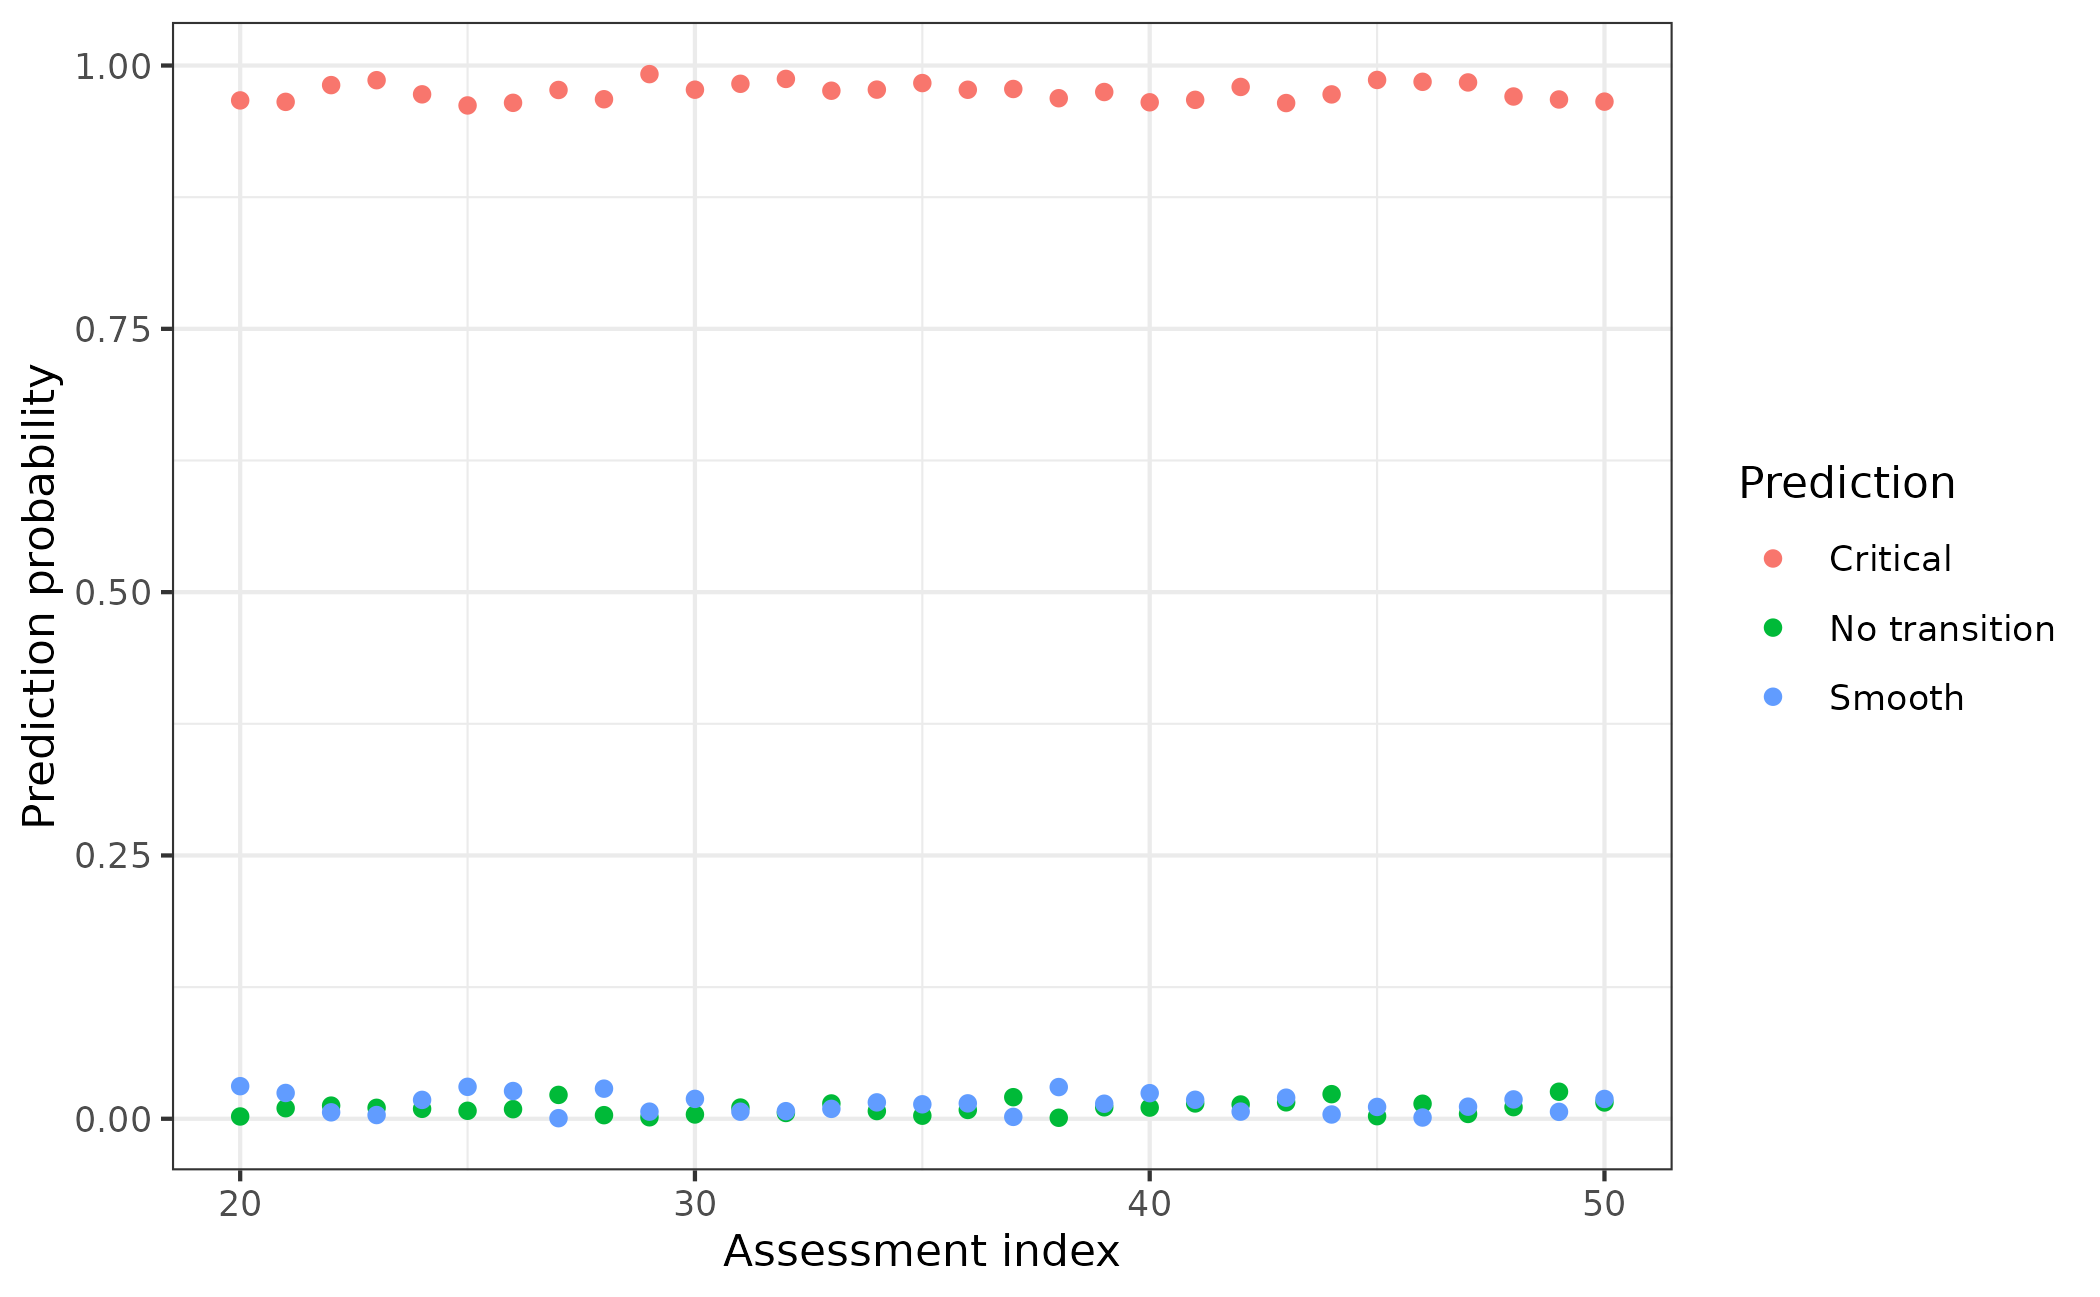
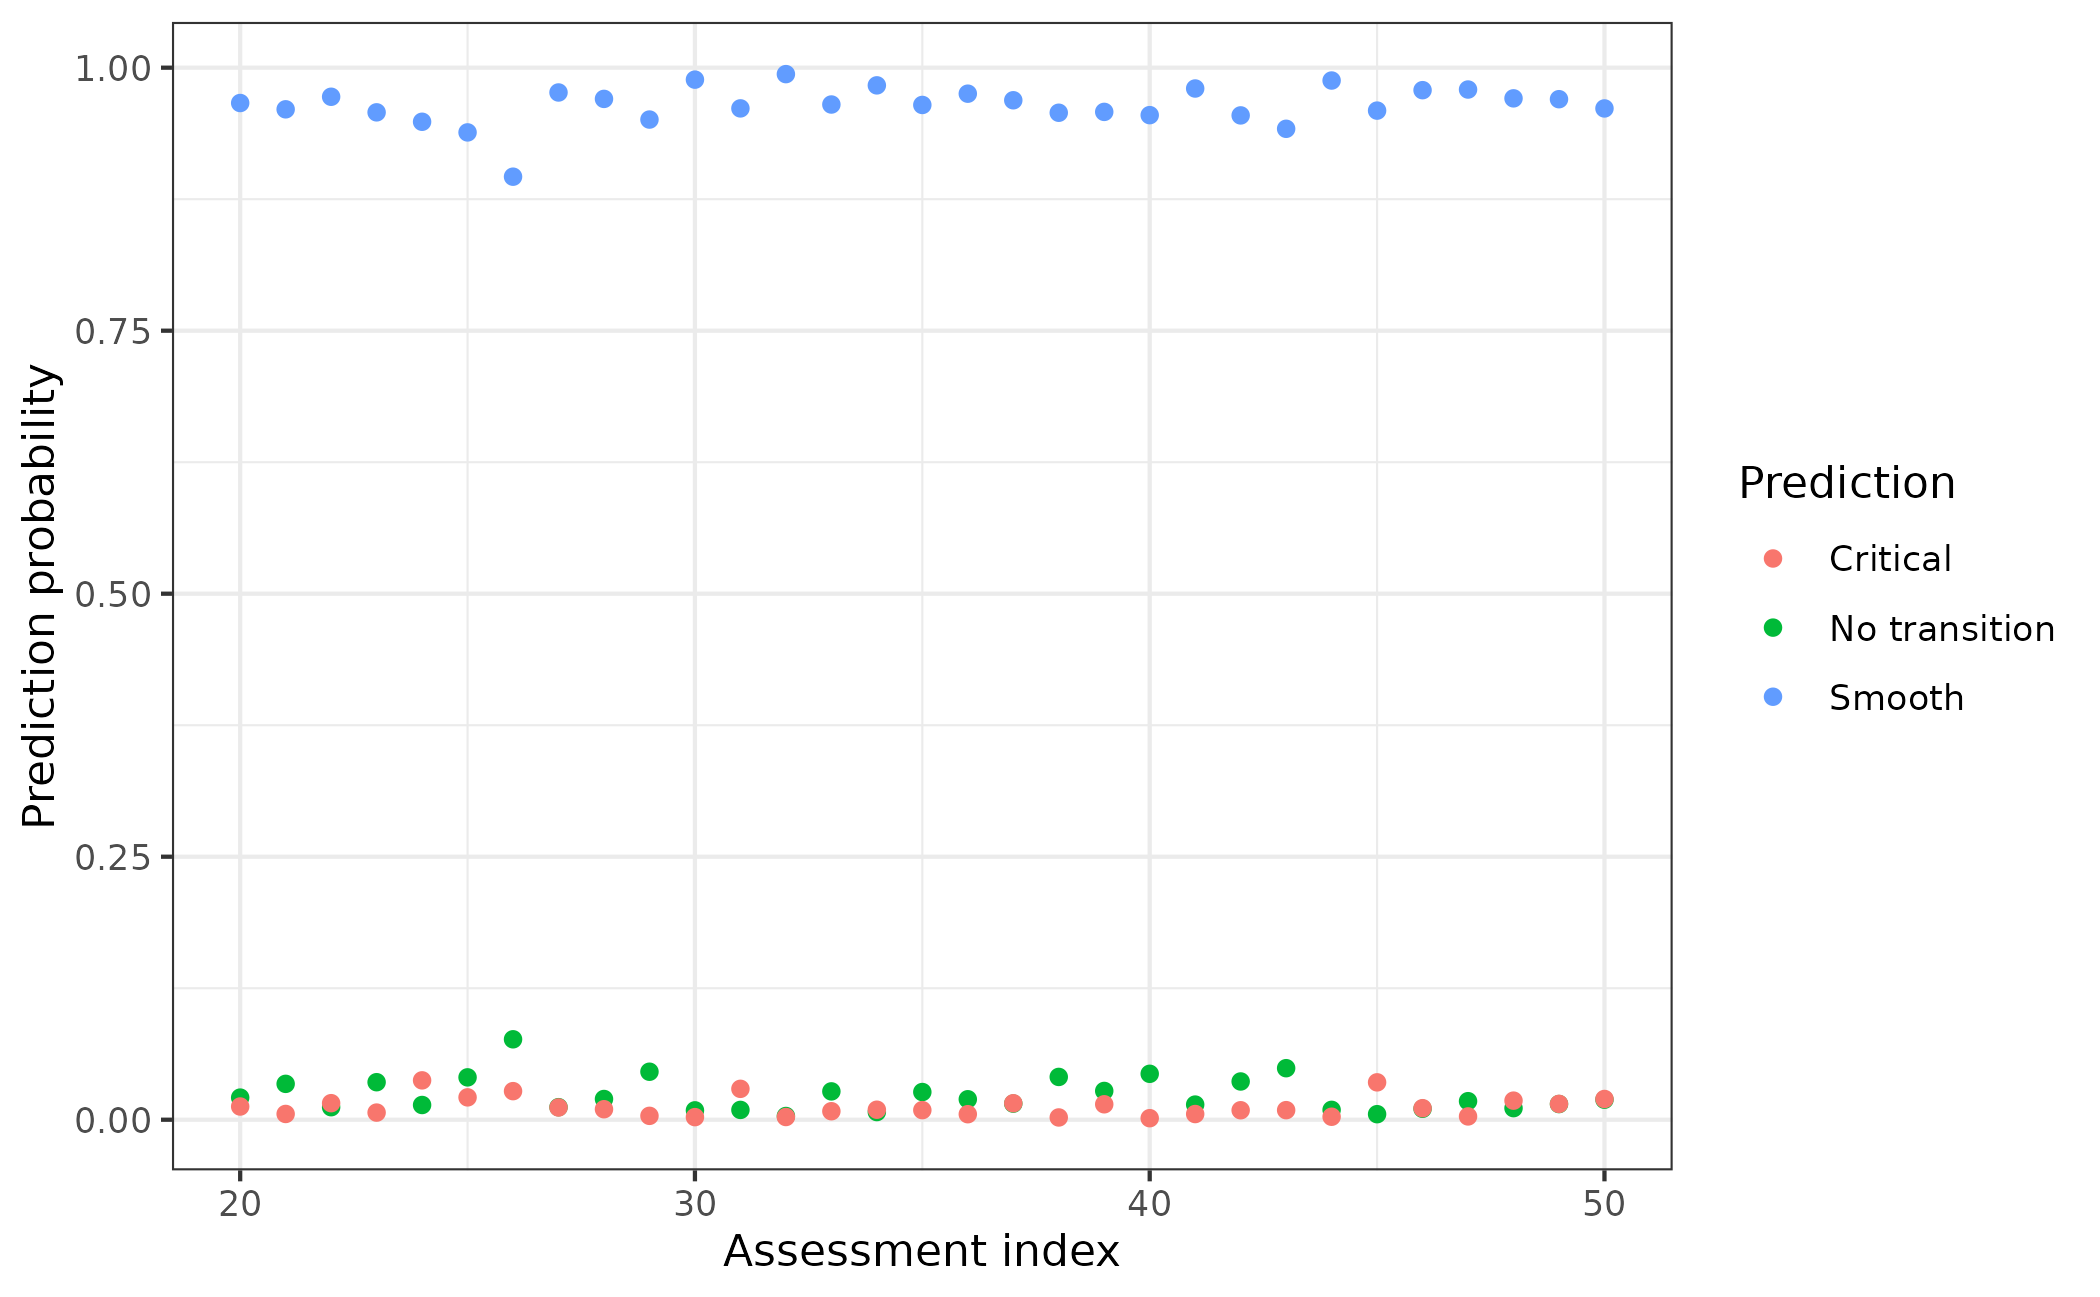
Deploying to gh-pages from @ duncanobrien/EWSmethods@589113be00484daf513284acea203fcb25f20b66 🚀

diff --git a/articles/using_ewsnet.html b/articles/using_ewsnet.html
@@ -85,7 +85,7 @@
       <img src="../logo.svg" class="logo" alt=""><h1>Using EWSNet</h1>
                         <h4 data-toc-skip class="author">Duncan O’Brien</h4>
             
-            <h4 data-toc-skip class="date">2022-09-08</h4>
+            <h4 data-toc-skip class="date">2022-09-09</h4>
       
       <small class="dont-index">Source: <a href="https://github.com/duncanobrien/EWSmethods/blob/HEAD/vignettes/using_ewsnet.Rmd" class="external-link"><code>vignettes/using_ewsnet.Rmd</code></a></small>
       <div class="d-none name"><code>using_ewsnet.Rmd</code></div>
@@ -97,6 +97,7 @@
 <h2 id="about-this-tutorial">About this tutorial<a class="anchor" aria-label="anchor" href="#about-this-tutorial"></a>
 </h2>
 <p>This tutorial introduces how to interface with <strong>EWSNet</strong>, a machine learning model trained to predict critical transitions, tipping points, and regime shifts (Deb <em>et al.</em> 2022). We will only focus on how to set up your R session to interact with EWSNet and how to interpret the output rather than the theory and mathematics underlying the model. If you are interest in those details, please refer to the EWSNet specific <a href="https://ewsnet.github.io" class="external-link">website and documentation</a> or the associated <a href="https://royalsocietypublishing.org/doi/10.1098/rsos.211475" class="external-link">publication</a>.</p>
+<p><strong>NOTE</strong> This version of EWSNet differs from that published by Deb <em>et al.</em> (2022) in that is has been retrained using a range of time series lengths (minimum = 15). This immproves the accuracy of EWSNet over a range of time series lengths but we recommend that the minimum length to be tested should be 15 data points.</p>
 <p><br></p>
 </div>
 <div class="section level2">
@@ -156,11 +157,11 @@
 <p><img src="using_ewsnet_files/figure-html/create_white_data-1.png" width="1050"></p>
 <p>We then simply provide this vector to <code><a href="../reference/ewsnet_predict.html">ewsnet_predict()</a></code> while also specifying the Python environment, the scaling of the data and ensemble number (how many models to average the prediction over).</p>
 <div class="sourceCode" id="cb5"><pre class="downlit sourceCode r">
-<code class="sourceCode R"><span><span class="va">ewsnet_prediction</span> <span class="op">&lt;-</span> <span class="fu"><a href="../reference/ewsnet_predict.html">ewsnet_predict</a></span><span class="op">(</span><span class="va">test_data</span>, noise_type <span class="op">=</span> <span class="st">"W"</span>, ensemble <span class="op">=</span> <span class="fl">25</span>, envname <span class="op">=</span> <span class="st">"EWSNET_env"</span><span class="op">)</span> </span>
+<code class="sourceCode R"><span><span class="va">ewsnet_prediction</span> <span class="op">&lt;-</span> <span class="fu"><a href="../reference/ewsnet_predict.html">ewsnet_predict</a></span><span class="op">(</span><span class="va">test_data</span>, scaling <span class="op">=</span> <span class="cn">TRUE</span>, ensemble <span class="op">=</span> <span class="fl">25</span>, envname <span class="op">=</span> <span class="st">"EWSNET_env"</span><span class="op">)</span> </span>
 <span></span>
 <span><span class="va">ewsnet_prediction</span></span>
-<span><span class="co">#&gt;                  pred no_trans_prob smooth_trans_prob critical_trans_prob</span></span>
-<span><span class="co">#&gt; 1 Critical Transition    0.00806084       0.004108576           0.9878306</span></span></code></pre></div>
+<span><span class="co">#&gt;                pred no_trans_prob smooth_trans_prob critical_trans_prob</span></span>
+<span><span class="co">#&gt; 1 Smooth Transition    0.01513964         0.9677295           0.0171307</span></span></code></pre></div>
 <div class="section level4">
 <h4 id="interpreting-ewsnet">Interpreting EWSNet<a class="anchor" aria-label="anchor" href="#interpreting-ewsnet"></a>
 </h4>
@@ -191,7 +192,7 @@ Conceptual diagram of A) the type of transitions that EWSNet has been trained on
 <span></span>
 <span><span class="co">#call `ewsnet_predict()` for each index </span></span>
 <span><span class="kw">for</span><span class="op">(</span><span class="va">i</span> <span class="kw">in</span> <span class="fu"><a href="https://rdrr.io/r/base/seq.html" class="external-link">seq_along</a></span><span class="op">(</span><span class="va">expanding_range</span><span class="op">)</span><span class="op">)</span><span class="op">{</span> </span>
-<span>  <span class="va">ews.tmp</span> <span class="op">&lt;-</span> <span class="fu"><a href="../reference/ewsnet_predict.html">ewsnet_predict</a></span><span class="op">(</span><span class="va">test_data</span><span class="op">[</span><span class="fl">1</span><span class="op">:</span><span class="va">expanding_range</span><span class="op">[</span><span class="va">i</span><span class="op">]</span><span class="op">]</span>,noise_type <span class="op">=</span> <span class="st">"W"</span>, ensemble <span class="op">=</span> <span class="fl">25</span>, envname <span class="op">=</span> <span class="st">"EWSNET_env"</span><span class="op">)</span> </span>
+<span>  <span class="va">ews.tmp</span> <span class="op">&lt;-</span> <span class="fu"><a href="../reference/ewsnet_predict.html">ewsnet_predict</a></span><span class="op">(</span><span class="va">test_data</span><span class="op">[</span><span class="fl">1</span><span class="op">:</span><span class="va">expanding_range</span><span class="op">[</span><span class="va">i</span><span class="op">]</span><span class="op">]</span>,scaling <span class="op">=</span> <span class="cn">TRUE</span>, ensemble <span class="op">=</span> <span class="fl">25</span>, envname <span class="op">=</span> <span class="st">"EWSNET_env"</span><span class="op">)</span> </span>
 <span>  </span>
 <span>  <span class="va">expanding_ewsnet</span><span class="op">[</span><span class="va">i</span>,<span class="op">]</span> <span class="op">&lt;-</span> <span class="fu"><a href="https://rdrr.io/r/base/c.html" class="external-link">c</a></span><span class="op">(</span><span class="va">expanding_range</span><span class="op">[</span><span class="va">i</span><span class="op">]</span>,<span class="va">ews.tmp</span><span class="op">$</span><span class="va">no_trans_prob</span>,<span class="va">ews.tmp</span><span class="op">$</span><span class="va">smooth_trans_prob</span>,<span class="va">ews.tmp</span><span class="op">$</span><span class="va">critical_trans_prob</span><span class="op">)</span></span>
 <span><span class="op">}</span></span>

diff --git a/index.html b/index.html
@@ -94,7 +94,7 @@
 <div class="sourceCode" id="cb1"><pre class="downlit sourceCode r">
 <code class="sourceCode R"><span><span class="fu"><a href="https://rdrr.io/r/utils/install.packages.html" class="external-link">install.packages</a></span><span class="op">(</span><span class="st">"devtools"</span><span class="op">)</span></span>
 <span><span class="fu">devtools</span><span class="fu">::</span><span class="fu">install_github</span><span class="op">(</span><span class="st">"duncanobrien/EWSmethods"</span><span class="op">)</span></span></code></pre></div>
-<p><strong>Be aware, due to the large file sizes of the EWSNet model weights, the size of the package is ~100MB.</strong></p>
+<p><strong>Be aware, due to the large file sizes of the EWSNet model weights, the size of the package is ~230MB.</strong></p>
 <p><br></p>
 </div>
 <div class="section level2">
@@ -213,11 +213,11 @@
 <span><span class="co">#&gt; 5           bzip2     1.0.8               bzip2=1.0.8 conda-forge</span></span>
 <span><span class="co">#&gt; 6 ca-certificates 2022.6.15 ca-certificates=2022.6.15 conda-forge</span></span>
 <span></span>
-<span><span class="va">skylark_ewsnet</span> <span class="op">&lt;-</span> <span class="fu"><a href="reference/ewsnet_predict.html">ewsnet_predict</a></span><span class="op">(</span><span class="va">skylark_data</span><span class="op">$</span><span class="va">abundance</span>, noise_type <span class="op">=</span> <span class="st">"W"</span>, ensemble <span class="op">=</span> <span class="fl">25</span>, envname <span class="op">=</span> <span class="st">"EWSNET_env"</span><span class="op">)</span> <span class="co">#perform EWSNet assessment using white noise and all 25 models. The envname should match ewsnet_init()</span></span>
+<span><span class="va">skylark_ewsnet</span> <span class="op">&lt;-</span> <span class="fu"><a href="reference/ewsnet_predict.html">ewsnet_predict</a></span><span class="op">(</span><span class="va">skylark_data</span><span class="op">$</span><span class="va">abundance</span>, scaling <span class="op">=</span> <span class="cn">TRUE</span>, ensemble <span class="op">=</span> <span class="fl">25</span>, envname <span class="op">=</span> <span class="st">"EWSNET_env"</span><span class="op">)</span> <span class="co">#perform EWSNet assessment using white noise and all 25 models. The envname should match ewsnet_init()</span></span>
 <span></span>
 <span><span class="va">skylark_ewsnet</span></span>
-<span><span class="co">#&gt;                  pred no_trans_prob smooth_trans_prob critical_trans_prob</span></span>
-<span><span class="co">#&gt; 1 Critical Transition  0.0001411155         0.2852249           0.7146339</span></span></code></pre></div>
+<span><span class="co">#&gt;                pred no_trans_prob smooth_trans_prob critical_trans_prob</span></span>
+<span><span class="co">#&gt; 1 Smooth Transition    0.01044229         0.9741974          0.01536029</span></span></code></pre></div>
 <p><br></p>
 </div>
 <div class="section level2">

diff --git a/reference/ewsnet_predict.html b/reference/ewsnet_predict.html
@@ -61,7 +61,7 @@
 
     <div class="section level2">
     <h2 id="ref-usage">Usage<a class="anchor" aria-label="anchor" href="#ref-usage"></a></h2>
-    <div class="sourceCode"><pre class="sourceCode r"><code><span><span class="fu">ewsnet_predict</span><span class="op">(</span><span class="va">x</span>, noise_type <span class="op">=</span> <span class="st">"W"</span>, ensemble <span class="op">=</span> <span class="fl">25</span>, <span class="va">envname</span><span class="op">)</span></span></code></pre></div>
+    <div class="sourceCode"><pre class="sourceCode r"><code><span><span class="fu">ewsnet_predict</span><span class="op">(</span><span class="va">x</span>, scaling <span class="op">=</span> <span class="cn">TRUE</span>, ensemble <span class="op">=</span> <span class="fl">25</span>, <span class="va">envname</span><span class="op">)</span></span></code></pre></div>
     </div>
 
     <div class="section level2">
@@ -70,8 +70,8 @@
 <dd><p>A numeric vector of values to be tested.</p></dd>
 
 
-<dt>noise_type</dt>
-<dd><p>A string stating the form of noise to use. Options are "W" (white noise) or "C" (coloured noise).</p></dd>
+<dt>scaling</dt>
+<dd><p>Boolean.  If <code>TRUE</code>, the time series will be scaled between 1 and 2 and scaled EWSNet model weights will be used. This is the recommended setting.</p></dd>
 
 
 <dt>ensemble</dt>
@@ -109,7 +109,7 @@
 <span class="r-in"><span><span class="kw">if</span> <span class="op">(</span><span class="cn">FALSE</span><span class="op">)</span> <span class="op">{</span></span></span>
 <span class="r-in"><span><span class="va">pred</span> <span class="op">&lt;-</span> <span class="fu">ewsnet_predict</span><span class="op">(</span></span></span>
 <span class="r-in"><span> <span class="va">abundance_data</span><span class="op">$</span><span class="va">abundance</span>,</span></span>
-<span class="r-in"><span> noise_type <span class="op">=</span> <span class="st">"W"</span>,</span></span>
+<span class="r-in"><span> scaling <span class="op">=</span> <span class="cn">TRUE</span>,</span></span>
 <span class="r-in"><span> ensemble <span class="op">=</span> <span class="fl">15</span>,</span></span>
 <span class="r-in"><span> envname <span class="op">=</span> <span class="st">"EWSNET_env"</span><span class="op">)</span></span></span>
 <span class="r-in"><span> <span class="op">}</span></span></span>

diff --git a/reference/multiEWS.html b/reference/multiEWS.html
@@ -140,7 +140,7 @@
 <span class="r-in"><span> method <span class="op">=</span> <span class="st">"rolling"</span>,</span></span>
 <span class="r-in"><span> winsize <span class="op">=</span> <span class="fl">50</span>,</span></span>
 <span class="r-in"><span> ggplotIt <span class="op">=</span><span class="cn">FALSE</span><span class="op">)</span></span></span>
-<span class="r-wrn co"><span class="r-pr">#&gt;</span> <span class="warning">Warning: </span>Cannot compute exact p-value with ties</span>
+<span class="r-wrn co"><span class="r-pr">#&gt;</span> <span class="warning">Warning: </span>the standard deviation is zero</span>
 <span class="r-in"><span></span></span>
 <span class="r-in"><span><span class="co">#Expanding window early warning signal assessment of</span></span></span>
 <span class="r-in"><span><span class="co">#the ecosystem, with plotting.</span></span></span>

diff --git a/articles/ews_assessments.html b/articles/ews_assessments.html
@@ -85,7 +85,7 @@
       <img src="../logo.svg" class="logo" alt=""><h1>Performing Early Warning Signal Assessments</h1>
                         <h4 data-toc-skip class="author">Duncan O’Brien</h4>
             
-            <h4 data-toc-skip class="date">2022-09-08</h4>
+            <h4 data-toc-skip class="date">2022-09-09</h4>
       
       <small class="dont-index">Source: <a href="https://github.com/duncanobrien/EWSmethods/blob/HEAD/vignettes/ews_assessments.Rmd" class="external-link"><code>vignettes/ews_assessments.Rmd</code></a></small>
       <div class="d-none name"><code>ews_assessments.Rmd</code></div>
